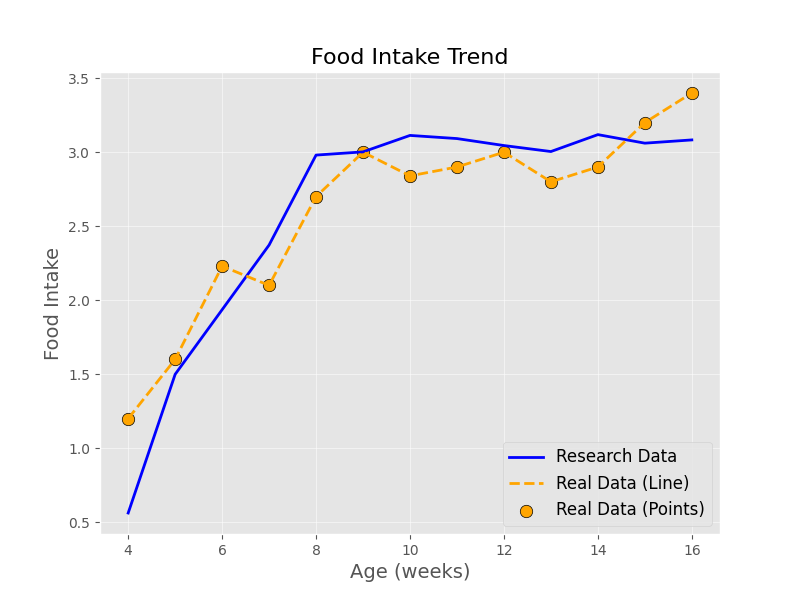
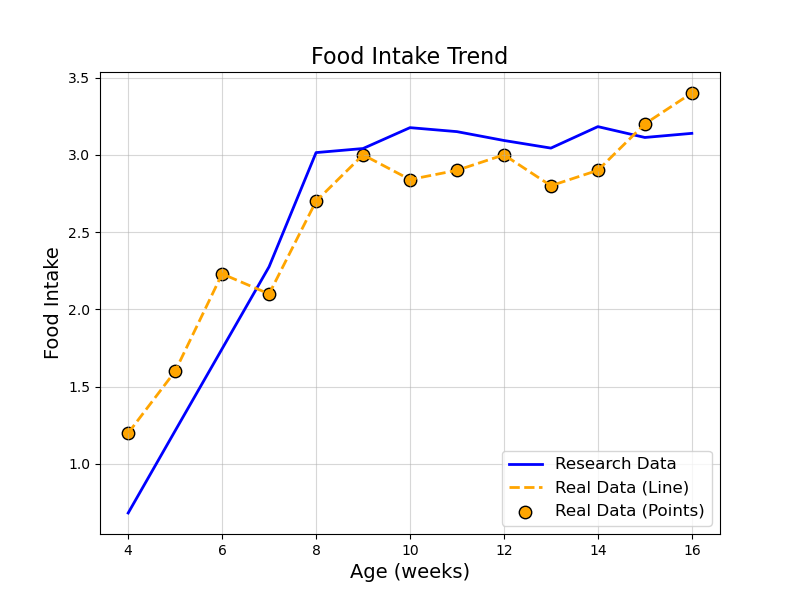
changes

diff --git a/app.py b/app.py
@@ -10,16 +10,17 @@ from sklearn.ensemble import RandomForestRegressor
 from sklearn.model_selection import train_test_split
 from sklearn.metrics import mean_squared_error
 import seaborn as sns
+from flask_cors import CORS
 
 app = Flask(__name__)
+CORS(app)
 
 # Global variables
 JAVA_SERVER_URL = "http://localhost:80/api/train"
 MODEL_PATH = "model/trained_model.pkl"
-PLOTS_DIR = "plots"
-
-# Ensure the plots directory exists
+PLOTS_DIR = os.path.join(app.root_path, 'plots')
 os.makedirs(PLOTS_DIR, exist_ok=True)
+
 
 
 def fetch_research_data():
@@ -44,52 +45,71 @@ def fetch_research_data():
 def preprocess_research_data(research_data, real_data):
     """
     Preprocess research data to align with real data:
-    - Filter by age range
-    - Align start point to real data
+    - Automatically align start point with the earliest week in real_data
     - Interpolate missing weeks
-    - Scale to match the real data trend
+    - Scale research data to match the real data trend
     """
     print(f"Initial research data shape: {research_data.shape}")
     print(f"Initial real data shape: {real_data.shape}")
 
-    # Filter research data to start from week 4
-    min_age = 4
+    # Automatically determine the minimum and maximum weeks
+    min_age = real_data['age_weeks'].min()
     max_age = real_data['age_weeks'].max()
+    print(f"Aligning research data to real data age range: {min_age} to {max_age}")
+
+    # Filter research data to the matching age range
     research_data = research_data[(research_data['age_weeks'] >= min_age) & (research_data['age_weeks'] <= max_age)]
 
-    # Ensure numeric columns are used
+    # Ensure numeric columns are used for processing
     numeric_columns = ['age_weeks', 'pet_weight', 'food_intake']
-    research_data = research_data[numeric_columns]
-    research_data = research_data.dropna()
+    research_data = research_data[numeric_columns].dropna()
 
-    # Group by age_weeks and calculate mean for aggregation
+    # Group by age_weeks and calculate mean to handle duplicates
     research_data = research_data.groupby('age_weeks').mean().reset_index()
 
     # Interpolate missing weeks
     all_weeks = np.arange(min_age, max_age + 1)
-    research_data = research_data.set_index('age_weeks').reindex(all_weeks).interpolate(method='linear').reset_index()
-    research_data.rename(columns={'index': 'age_weeks'}, inplace=True)
+    research_data = (
+        research_data.set_index('age_weeks')
+        .reindex(all_weeks)
+        .interpolate(method='linear')  # Fill missing data
+        .reset_index()
+        .rename(columns={'index': 'age_weeks'})
+    )
 
-    # Align starting point to match real data
+    # Align starting point to match real data at the minimum week
     start_week = min_age
-    real_start_weight = real_data.loc[real_data['age_weeks'] == start_week, 'pet_weight'].values[0]
-    real_start_food = real_data.loc[real_data['age_weeks'] == start_week, 'food_intake'].values[0]
+    if start_week in real_data['age_weeks'].values and start_week in research_data['age_weeks'].values:
+        real_start_weight = real_data.loc[real_data['age_weeks'] == start_week, 'pet_weight'].values[0]
+        real_start_food = real_data.loc[real_data['age_weeks'] == start_week, 'food_intake'].values[0]
 
-    research_data.loc[research_data['age_weeks'] == start_week, 'pet_weight'] = real_start_weight
-    research_data.loc[research_data['age_weeks'] == start_week, 'food_intake'] = real_start_food
+        research_start_weight = research_data.loc[research_data['age_weeks'] == start_week, 'pet_weight'].values[0]
+        research_start_food = research_data.loc[research_data['age_weeks'] == start_week, 'food_intake'].values[0]
 
-    # Scale research data to match the real data trend
+        # Adjust the research data to align with the real data at the start week
+        weight_offset = real_start_weight - research_start_weight
+        food_offset = real_start_food - research_start_food
+        research_data['pet_weight'] += weight_offset
+        research_data['food_intake'] += food_offset
+        print(f"Aligned research data to real data at week {start_week}: weight offset {weight_offset}, food offset {food_offset}")
+
+    # Scale research data to match the overall trend of real data
     weight_ratio = real_data['pet_weight'].mean() / research_data['pet_weight'].mean()
     food_ratio = real_data['food_intake'].mean() / research_data['food_intake'].mean()
     research_data['pet_weight'] *= weight_ratio
     research_data['food_intake'] *= food_ratio
+    print(f"Scaled research data with weight ratio {weight_ratio} and food ratio {food_ratio}")
 
     print(f"Preprocessed research data shape: {research_data.shape}")
     return research_data
 
 @app.route('/plots/<filename>')
 def serve_plot(filename):
-    """Serve the generated plots as static files."""
+    file_path = os.path.join(PLOTS_DIR, filename)
+    if not os.path.exists(file_path):
+        print(f"File not found: {file_path}")
+        return "File not found", 404
+    print(f"Serving plot: {file_path}")
     return send_from_directory(PLOTS_DIR, filename)
 
 @app.route('/api/train', methods=['POST'])
@@ -123,10 +143,13 @@ def train_model():
 def visualize_data():
     try:
         payload = request.get_json()
+        print("Received Payload:", payload)  # Debug
         if not isinstance(payload, dict) or "real_data" not in payload:
             return jsonify({"error": "Invalid payload format. Expected a dictionary with key 'real_data'."}), 400
 
+        # Extract real data from payload
         real_data = pd.DataFrame(payload["real_data"])
+        print("Parsed Real Data:", real_data.head())  # Debug
         required_columns = ["age_weeks", "pet_weight", "food_intake"]
 
         if not all(col in real_data.columns for col in required_columns):
@@ -139,20 +162,12 @@ def visualize_data():
         if research_data.empty:
             return jsonify({"error": "No matching research data found after preprocessing."}), 400
 
-        model = joblib.load(MODEL_PATH)
-
-        real_data["predicted_weight"] = model.predict(real_data[["age_weeks", "food_intake"]])
-        research_data["predicted_weight"] = model.predict(research_data[["age_weeks", "food_intake"]])
-
-        # Sort real data by age_weeks to ensure correct plotting order
+        # Sort data for consistent plotting
         real_data = real_data.sort_values(by="age_weeks")
 
-        # Use a valid Matplotlib style
-        plt.style.use('ggplot')  # A built-in style
-
-        # Growth Trend Plot
+        # Create Growth Trend Plot
         plt.figure(figsize=(8, 6))
-        plt.plot(research_data['age_weeks'], research_data['predicted_weight'], label='Research Data', color='blue', lw=2)
+        plt.plot(research_data['age_weeks'], research_data['pet_weight'], label='Research Data', color='blue', lw=2)
         plt.plot(real_data['age_weeks'], real_data['pet_weight'], label='Real Data (Line)', color='orange', lw=2, linestyle='--')
         plt.scatter(real_data['age_weeks'], real_data['pet_weight'], label='Real Data (Points)', color='orange', edgecolor='black', s=80)
         plt.xlabel('Age (weeks)', fontsize=14)
@@ -160,10 +175,12 @@ def visualize_data():
         plt.title('Growth Trend', fontsize=16)
         plt.legend(fontsize=12)
         plt.grid(alpha=0.5)
-        plt.savefig(f"{PLOTS_DIR}/growth_trend.png")
+        growth_trend_path = f"{PLOTS_DIR}/growth_trend.png"
+        plt.savefig(growth_trend_path)
+        print(f"Saved Growth Trend at {growth_trend_path}")
         plt.close()
 
-        # Food Intake Trend Plot
+        # Create Food Intake Trend Plot
         plt.figure(figsize=(8, 6))
         plt.plot(research_data['age_weeks'], research_data['food_intake'], label='Research Data', color='blue', lw=2)
         plt.plot(real_data['age_weeks'], real_data['food_intake'], label='Real Data (Line)', color='orange', lw=2, linestyle='--')
@@ -173,15 +190,28 @@ def visualize_data():
         plt.title('Food Intake Trend', fontsize=16)
         plt.legend(fontsize=12)
         plt.grid(alpha=0.5)
-        plt.savefig(f"{PLOTS_DIR}/food_intake_trend.png")
+        food_intake_trend_path = f"{PLOTS_DIR}/food_intake_trend.png"
+        plt.savefig(food_intake_trend_path)
+        print(f"Saved Growth Trend at {food_intake_trend_path}")
         plt.close()
 
+        # Construct verdict based on comparison logic
+        verdict_data = []
+        for _, row in real_data.iterrows():
+            research_weight = research_data.loc[research_data["age_weeks"] == row["age_weeks"], "pet_weight"].values[0]
+            health_status = "Healthy" if row["pet_weight"] >= research_weight * 0.9 else "Unhealthy"
+            verdict_data.append({"age_weeks": row["age_weeks"], "health_status": health_status})
+
+        # Send response with plot paths and verdicts
         return jsonify({
-            "message": "Visualizations generated successfully.",
+            "message": "Visualization generated successfully.",
             "plots": ["growth_trend.png", "food_intake_trend.png"],
-            "health_data": real_data[["age_weeks", "pet_weight", "food_intake"]].to_dict(orient="records")
+
+            "verdict_data": verdict_data
         }), 200
+
     except Exception as e:
+        print("Error in visualize_data:", e)
         return jsonify({"error": str(e)}), 500
 
 
@@ -214,6 +244,26 @@ def descriptive_plots():
             "reservoirHeight": "reservoir_height"
         }
         pet_data_log_descriptive.rename(columns=column_mapping, inplace=True)
+
+        # Check for the timestamp column
+        if "timestamp" not in pet_data_log_descriptive.columns:
+            print("Warning: 'timestamp' column is missing. Generating synthetic timestamps.")
+            pet_data_log_descriptive["timestamp"] = pd.date_range(
+                start="2024-01-01", periods=len(pet_data_log_descriptive), freq="H"
+            )
+        else:
+            # Ensure timestamp is in datetime format
+            pet_data_log_descriptive["timestamp"] = pd.to_datetime(
+                pet_data_log_descriptive["timestamp"], format='%Y-%m-%d %H:%M:%S', errors='coerce'
+            )
+
+        # Check for null timestamps
+        if pet_data_log_descriptive["timestamp"].isnull().any():
+            print("Error: Invalid timestamp format in data.")
+            return jsonify({"error": "Invalid timestamp format in data."}), 400
+
+        # Debug log for timestamps
+        print("Timestamps in DataFrame:\n", pet_data_log_descriptive["timestamp"])
 
         # Create plots directory if it doesn't exist
         os.makedirs(PLOTS_DIR, exist_ok=True)
